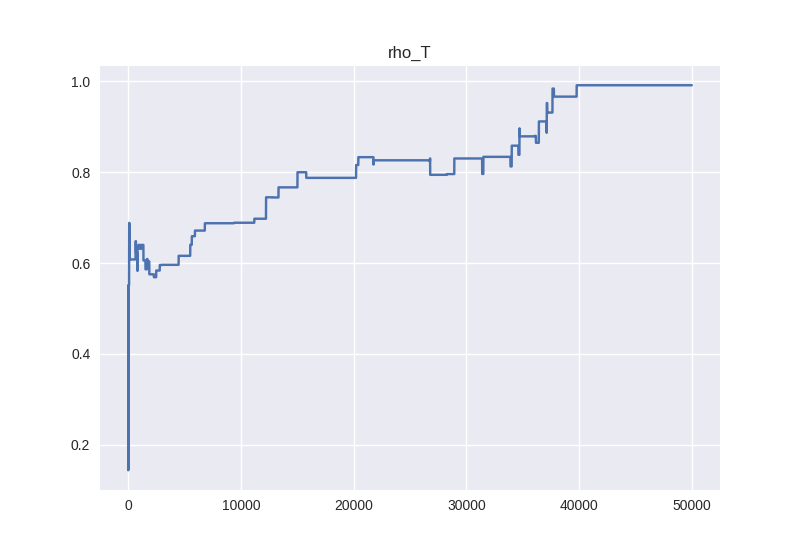
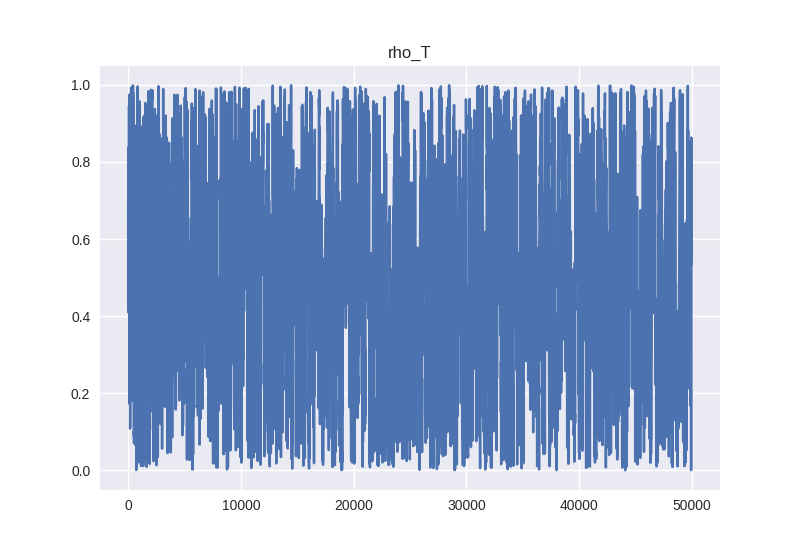
Fixed calib.

diff --git a/fortran/coupled_model.py b/fortran/coupled_model.py
@@ -69,25 +69,28 @@ class CoupledModel:
 		#self.sigma_ar = parameter('sigma_ar')
 		self.sigma_ar = values[4]
 		#self.climate_sensitivity = parameter('climate_sensitivity')
-		self.climate_sensitivity = values[5]
+		self.climate_sensitivity = values[3]
 		#self.ocean_vertical_diffusivity = parameter('ocean_vertical_diffusivity')
-		self.ocean_vertical_diffusivity = values[6]
+		self.ocean_vertical_diffusivity = values[4]
 		#self.aerosol_scaling = parameter('aerosol_scaling')
-		self.aerosol_scaling = values[7]
+		self.aerosol_scaling = values[5]
 		#self.T_0 = parameter('T_0')
-		self.T_0 = values[8]
+		self.T_0 = values[6]
 		#self.sigma_T = parameter('sigma_T')
 		self.sigma_T = values[9]
 		#self.rho_T = parameter('rho_T')
 		self.rho_T = values[10]
 		self.values = values
-		self.stepsizes = {'alpha': .01, 'Teq': .05, 'S0': 5, 'rho': .001, 'sigma_ar': .1, 'climate_sensitivity': 0.16, 'ocean_vertical_diffusivity': 0.17, 'aerosol_scaling': 0.025, 'T_0': 0.03, 'sigma_T': 5e-4, 'rho_T': 0.007}
+		#self.stepsizes = {'alpha': .01, 'Teq': .05, 'S0': 5, 'rho': .001, 'sigma_ar': .1, 'climate_sensitivity': 0.16, 'ocean_vertical_diffusivity': 0.17, 'aerosol_scaling': 0.025, 'T_0': 0.03, 'sigma_T': 5e-4, 'rho_T': 0.007}
+		self.stepsizes = [ .01,  .05,  5,  .001, .1,  0.16,  0.17,  0.025,0.03, 5e-4, 0.007]		
+		#self.stepsizes = {'alpha': .01, 'Teq': .05, 'S0': 5, 'climate_sensitivity': 0.16, 'ocean_vertical_diffusivity': 0.17, 'aerosol_scaling': 0.025, 'T_0': 0.03}
 		
 	def update_cov(self, X, s_d, size):
-		a = []
-		for i in range(size):
-			a.append(X[:,i])
-		a = np.array(a)
+		#a = []
+		#for i in range(size):
+		#	a.append(X[:,i])
+		a = np.array(X)
+		a = a.T
 		cov = np.cov(a)
 		eps = 0.0001
 		I_d = np.identity(size)
@@ -125,17 +128,22 @@ class CoupledModel:
 
 	def logp(self, theta, deltat, temperatures, model):
 
+
+		log_prior = self.prior(theta)
+		return log_prior 
 		N = len(self.sealevel)
-		alpha, Teq, S0, rho, sigma_ar = (
-		theta[0], theta[1], theta[2], theta[3], theta[4])
+		alpha, Teq, S0 = (
+		theta[0], theta[1], theta[2])
+		rho, sigma_ar = 0.5, 3
+		rho_t, sigma_t = 0.55, 1
 		resid = np.array([self.sealevel[i] - model[i] for i in range(len(model))])
 
 		sigma_obs = np.diag([i**2 for i in self.sealevel_sigma])
-		sigma_ar1 = self.build_ar1(rho, sigma_ar, N) if self.sigma_ar else []
+		sigma_ar1 = self.build_ar1(rho, sigma_ar, N) 
 
 		t_residual = self.dfTemperature - temperatures
 
-		sigma_ar1_T = self.build_ar1(theta[10], theta[9], N) if self.sigma_T else []
+		sigma_ar1_T = self.build_ar1(rho_t, sigma_t, N)
 		sigma_ar1_T = np.multiply((np.transpose(sigma_ar1_T) + sigma_ar1_T), 1/2)
 		log_prior = self.prior(theta)
 		if np.isinf(log_prior): return -np.inf
@@ -175,7 +183,7 @@ class CoupledModel:
 		theta = np.array(self.values)
 		print('Initial estimate for parameters -', theta)
 		temp_out, heatflux_mixed_out, heatflux_interior_out, gmsl_out = \
-		doeclim_gmsl(asc = theta[7], t2co_in = theta[5], kappa_in=theta[6], alphasl_in = theta[0], Teq = theta[1], SL0 = theta[2]) 
+		doeclim_gmsl(asc = theta[7], t2co_in = theta[5], kappa_in=theta[8], alphasl_in = theta[0], Teq = theta[1], SL0 = theta[2]) 
 		temp_out += self.T_0
 
 		lp = self.logp(theta, deltat, temp_out, gmsl_out)
@@ -184,20 +192,22 @@ class CoupledModel:
 		theta_new = [0.] * len(theta)
 		accepts = 0
 		mcmc_chains = np.zeros((N, (len(theta))))
-		step_values = list(self.stepsizes.values())
-		step = np.diag(step_values)
+		step = np.diag(self.stepsizes)
 		sd = 2.38**2 / len(theta)
-
-		#step = 0.5 * (step + step.T)
+		#step = 0.5 * step
 
 		#Check if converged. If not keep running. 
 		print(N)
 		for i in (range(N)):
 			if i > 500: step = self.update_cov(mcmc_chains[:i], sd, len(theta))
 			theta_new = list(np.random.multivariate_normal(theta, step))
+			#theta_new[3] = 0.5			
+			#theta_new[4] = 3
+			#theta_new[9] = 0.1			
+			#theta_new[10] = 0.55
 			temp_out, heatflux_mixed_out, heatflux_interior_out, gmsl_out = \
-			doeclim_gmsl(asc = theta[7], t2co_in = theta[5], kappa_in=theta[6], alphasl_in = theta[0], Teq = theta[1], SL0 = theta[2]) 
-			temp_out += theta[8]
+			doeclim_gmsl(asc = theta[7], t2co_in = theta[5], kappa_in=theta[8], alphasl_in = theta[0], Teq = theta[1], SL0 = theta[2]) 
+			temp_out += theta[6]
 			lp_new = self.logp(theta_new, deltat, temp_out, gmsl_out)
 			if np.isinf(lp_new):
 				mcmc_chains[i,:] = theta
@@ -208,7 +218,6 @@ class CoupledModel:
 			#print(lr, lq)
 			if (lr < lq):
 				theta = theta_new
-				print('NEW VALUE!')
 				lp = lp_new
 				accepts += 1
 				if lp > lp_max:
@@ -223,12 +232,14 @@ class CoupledModel:
 #'aerosol_scaling': 1.1, 'T_0': -0.06, 'sigma_T': 0.1, 'rho_T': 0.55}
 
 values = [3.4, -0.5, -100, .5, 3, 3.1, 3.5, 1.1, -0.06, 0.1, 0.55]
+#values = [3.4, -0.5, -100, 3.1, 3.5, 1.1, -0.06]
 
 CM = CoupledModel(values)
 
 mcmc_chain,accept_rate = CM.chain(1, NUMBER)
 
 pamnames = ['alpha', 'Teq', 'S0', 'rho', 'sigma_ar', 'climate_sensitivity', 'ocean_vertical_diffusivity', 'aerosol_scaling', 'T_0', 'sigma_T', 'rho_T']
+#pamnames = ['alpha', 'Teq', 'sigma_ar', 'climate_sensitivity', 'ocean_vertical_diffusivity', 'aerosol_scaling', 'T_0']
 
 #print(mcmc_chain[:200,0])
 
